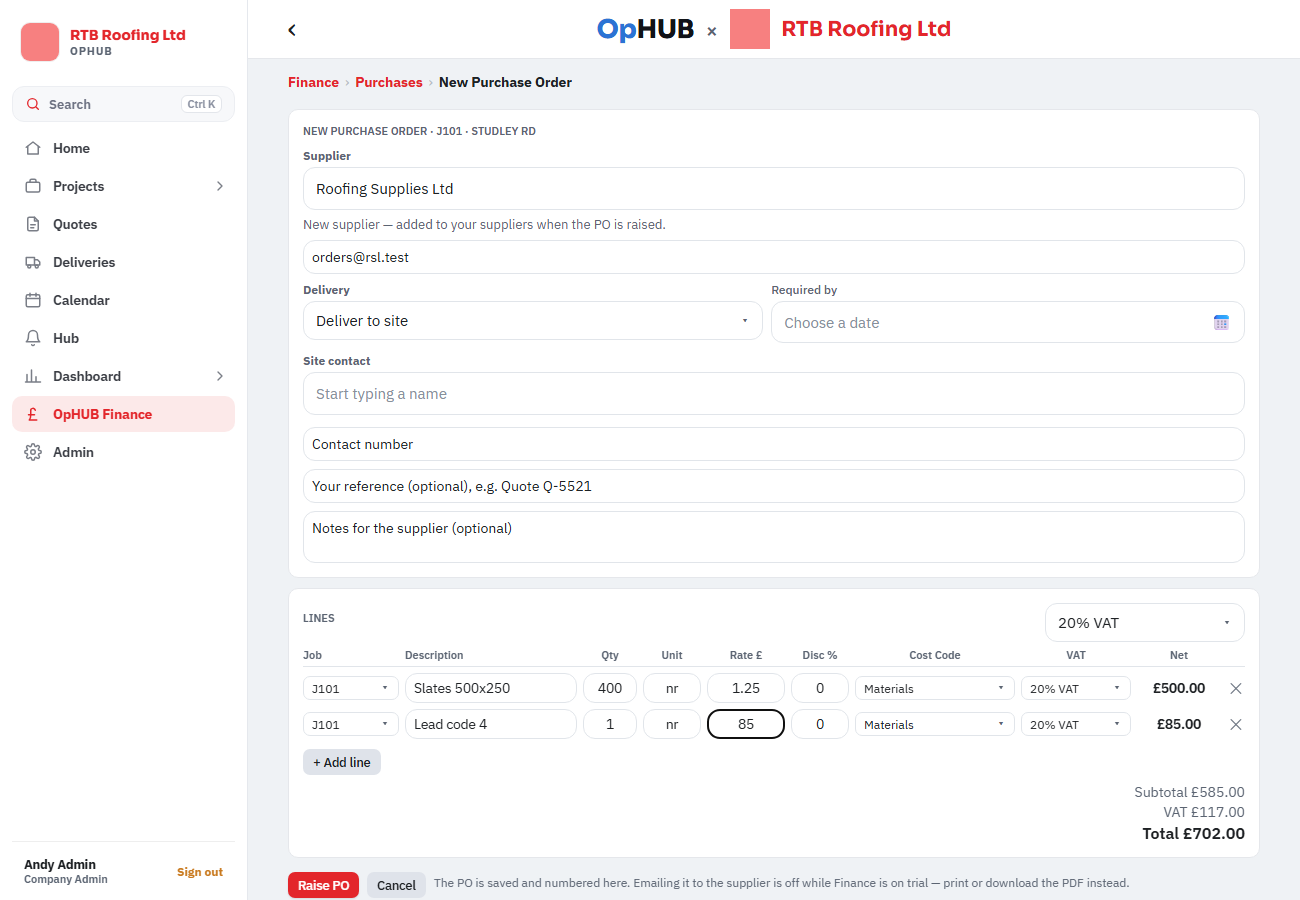
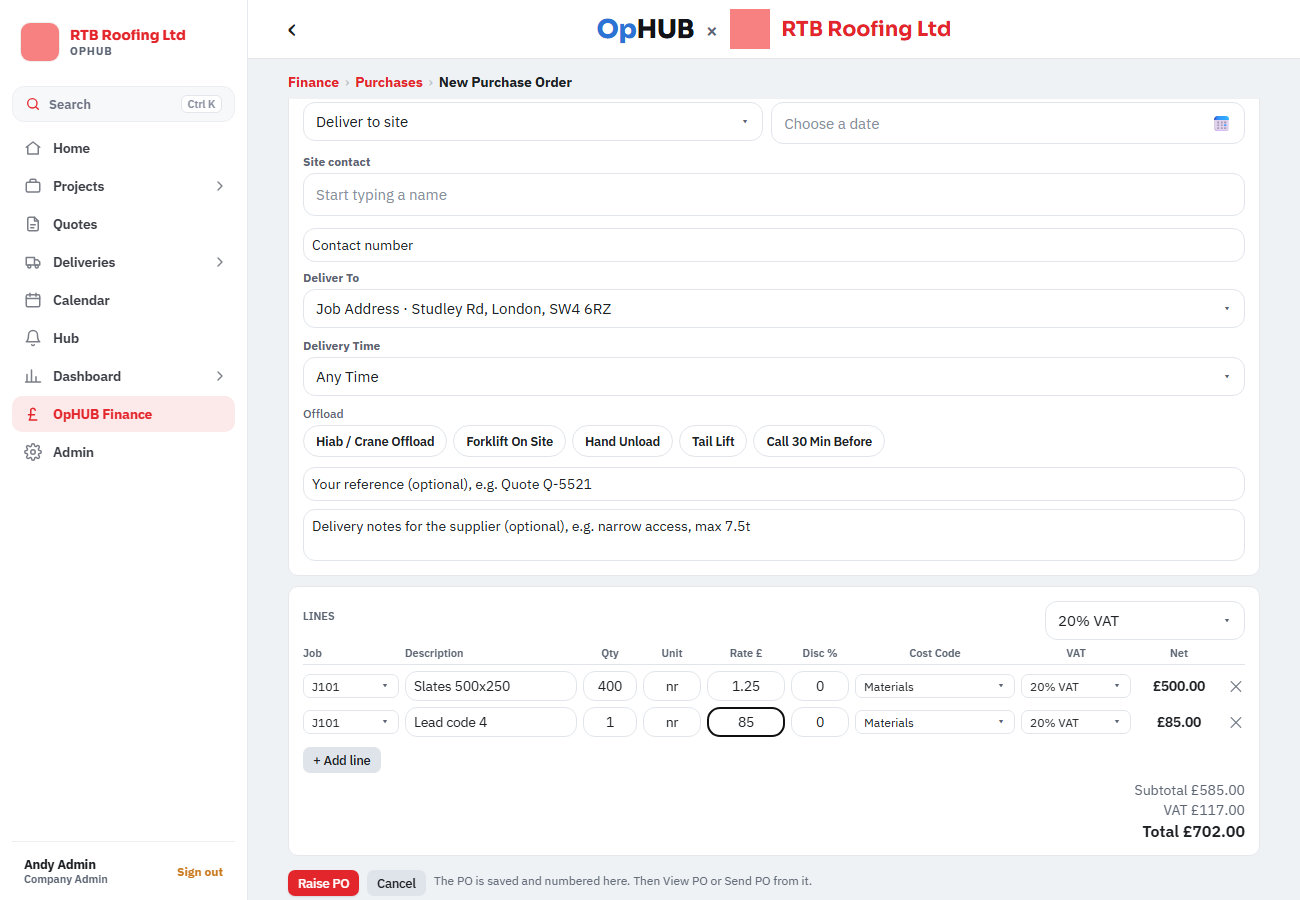
Purchase orders (Andy, 5 Nov): the project quote (and price lists) as a shopping list beside the new PO: tick items, Add To PO, the supplier fills in; Deliver To the job address by default, or the office, or a typed address; delivery time and offload needs (Hiab, forklift, hand unload, tail lift, ca
Claude-Session: https://claude.ai/code/session_012KhfNvBEbifMJmPdX7yZfp

diff --git a/app-native/src/components/FinNewPo.tsx b/app-native/src/components/FinNewPo.tsx
@@ -25,6 +25,9 @@ import { supabase } from '@/lib/supabase';
 import type { Site } from '@/lib/types';
 import { base, radius, useDesk } from '@/theme/theme';
 
+const OFFLOAD = ['Hiab / Crane Offload', 'Forklift On Site', 'Hand Unload', 'Tail Lift', 'Call 30 Min Before'];
+const TIMES: [string, string][] = [['', 'Any Time'], ['First Thing (Before 9)', 'First Thing (Before 9)'], ['AM (8–12)', 'AM (8–12)'], ['PM (12–5)', 'PM (12–5)'], ['Timed — See Notes', 'Timed — See Notes']];
+type QItem = { id: string; quote_id: string; code: string | null; description: string | null; unit: string | null; rate: number | null; supplier_name: string | null };
 type Line = { site_id: string; description: string; qty: string; unit: string; rate: string; disc: string; cost_code: string; cost_code_id: string | null; vat: string };
 type Code = { id: string; code: string | null; name: string; category: string | null; active: boolean | null };
 const box = { borderWidth: 1, borderColor: base.line, borderRadius: radius.input, paddingHorizontal: 8, paddingVertical: 7, color: base.ink, backgroundColor: base.card };
@@ -70,6 +73,22 @@ export function FinNewPo({ site, itemIds = [] }: { site: Site; itemIds?: string[
   // A supplier's default VAT from the Directory goes on every line.
   const applySupVat = (id: string, name: string) => { const v = finSups?.find((x) => x.supplier_id === id || x.name.trim().toLowerCase() === name.trim().toLowerCase())?.purchase_vat; if (v && vats.some((x) => x.code === v)) setLines((ls) => ls.map((l) => ({ ...l, vat: v }))); };
   const [busy, setBusy] = useState(false);
+  // Delivery (Andy, 5 Nov 2026): the job address by default, or the office, or typed; a time; what's needed to offload.
+  const [deliverTo, setDeliverTo] = useState<'job' | 'office' | 'other'>('job');
+  const [addrTyped, setAddrTyped] = useState('');
+  const [delTime, setDelTime] = useState('');
+  const [offload, setOffload] = useState<string[]>([]);
+  const jobAddr = [(site as Record<string, any>).address, (site as Record<string, any>).postcode].filter(Boolean).join(', ');
+  const officeAddr = String((setup?.st as Record<string, any> | undefined)?.company_address || '').replace(/\s*\n\s*/g, ', ');
+  // The project's quotes and the price lists, as a shopping list: tick what you want and add it (Andy, 5 Nov 2026).
+  const { data: quotes } = useQuery({ queryKey: ['finPoQuotes', site.id, me?.org_id], enabled: !!me, queryFn: async () => {
+    const qs = ((await fdb.from('fin_quotes').select('id,site_id,supplier_name,quote_no,quote_date,created_at').eq('org_id', me?.org_id as string).eq('purpose', 'pquote')).data as Record<string, any>[] | null) ?? [];
+    const mine = qs.filter((q) => !q.site_id || q.site_id === site.id).sort((a, b) => Number(b.site_id === site.id) - Number(a.site_id === site.id) || String(b.quote_date || b.created_at || '').localeCompare(String(a.quote_date || a.created_at || '')));
+    const items = mine.length ? ((await fdb.from('fin_quote_items').select('id,quote_id,code,description,unit,rate,supplier_name,active').in('quote_id', mine.map((q) => q.id)).eq('active', true).order('position')).data as QItem[] | null) ?? [] : [];
+    return { list: mine, items };
+  } });
+  const [qPick, setQPick] = useState('');
+  const [ticked, setTicked] = useState<Set<string>>(new Set());
   // Ticked on Purchase Quotes (9219z finPqRaisePo): those items become the lines, the supplier filled in.
   const [filled, setFilled] = useState(false);
   const { data: picked } = useQuery({ queryKey: ['finNewPoItems', itemIds.join(',')], enabled: itemIds.length > 0, queryFn: async () => ((await fdb.from('fin_quote_items').select('*').in('id', itemIds)).data as Record<string, any>[] | null) ?? [] });
@@ -91,6 +110,7 @@ export function FinNewPo({ site, itemIds = [] }: { site: Site; itemIds?: string[
     if (!supId && !supText.trim()) { toast('Choose the supplier.'); return; }
     if (contact.trim() && !contactPh.trim()) { toast(`Add a contact number for ${contact.trim()}.`); return; }
     if (isNew && newEmail.trim() && !/^[^\s@]+@[^\s@]+\.[^\s@]+$/.test(newEmail.trim())) { toast('Check the supplier’s email.'); return; }
+    if (deliverTo === 'other' && delivery === 'delivery' && !addrTyped.trim()) { toast('Type the delivery address.'); return; }
     const items = lines.filter((l) => l.description.trim()).map((l) => {
       const d = dsc(l), r = num(l.rate);
       return { item: l.description.trim(), qty: num(l.qty), unit: l.unit.trim() || null, rate: r === null || isNaN(r) ? null : r4(r * (1 - d / 100)), ...(d ? { list_rate: r, discount_pct: d } : {}), amount: amt(l), cost_code: l.cost_code || 'materials', ...(codes.length && (l.cost_code_id ?? codeFor(l.cost_code)) ? { cost_code_id: l.cost_code_id ?? codeFor(l.cost_code) } : {}), site_id: l.site_id || site.id, vat_rate: l.vat, vat: r2(amt(l) * rateOf(l.vat)) };
@@ -115,14 +135,40 @@ export function FinNewPo({ site, itemIds = [] }: { site: Site; itemIds?: string[
       if (sids.length > 1) { const tot = net || 1; split = sids.map((x) => ({ site_id: x, pct: r2((bySite[x] / tot) * 100) })); split[0].pct = r2(split[0].pct + r2(100 - split.reduce((t, e) => t + e.pct, 0))); }
       // The plot list is this job's plots: it only applies if the PO stayed on this job.
       const plot = poSite === site.id ? sub : '';
-      await fdb.from('purchase_orders').update({ vat, total: r2(net + vat), reference: ref.trim() || null, issue_date: todayIso(), site_contact: contact.trim() || null, site_contact_phone: contactPh.trim() || null, ...(plot ? { sub_job_id: plot } : {}), ...(split ? { split, split_sites: sids.filter((x) => x !== poSite) } : {}) } as never).eq('id', d.id);
+      await fdb.from('purchase_orders').update({ vat, total: r2(net + vat), delivery_to: delivery === 'delivery' ? deliverTo : null, delivery_address: delivery === 'delivery' ? (deliverTo === 'office' ? officeAddr : deliverTo === 'other' ? addrTyped.trim() : jobAddr) || null : null, delivery_time: delTime || null, offload: offload.length ? offload : null, reference: ref.trim() || null, issue_date: todayIso(), site_contact: contact.trim() || null, site_contact_phone: contactPh.trim() || null, ...(plot ? { sub_job_id: plot } : {}), ...(split ? { split, split_sites: sids.filter((x) => x !== poSite) } : {}) } as never).eq('id', d.id);
       if (split) toast(`PO ${d.number} raised — costs split across ${sids.length} jobs`);
       router.replace(`/fin/po/${d.id}` as never);
     } finally { setBusy(false); }
   };
 
+  const qList = quotes?.list || [];
+  const qOn = qPick || qList[0]?.id || '';
+  const qItems = (quotes?.items || []).filter((i) => i.quote_id === qOn);
+  const shop = qList.length ? (
+    <Card style={desk ? { width: 380 } : undefined}>
+      <SectionTitle>From The Project Quote</SectionTitle>
+      <SelectBox value={qOn} title="Quote" options={qList.map((q) => [q.id, `${q.supplier_name || 'Supplier'}${q.quote_no ? ` ${q.quote_no}` : ''}${q.site_id ? '' : ' (price list)'}${q.quote_date ? ` · ${q.quote_date.split('-').reverse().join('/')}` : ''}`] as [string, string])} onChange={(k) => { setQPick(k); setTicked(new Set()); }} />
+      <Muted style={{ marginBottom: 6 }}>Tick what you want, like a shopping list.</Muted>
+      {qItems.map((i) => { const on = ticked.has(i.id); return (
+        <Pressable key={i.id} accessibilityRole="checkbox" accessibilityState={{ checked: on }} accessibilityLabel={`Tick ${i.description || ''}`} onPress={() => setTicked((t) => { const n = new Set(t); if (n.has(i.id)) n.delete(i.id); else n.add(i.id); return n; })} style={{ flexDirection: 'row', alignItems: 'center', gap: 8, paddingVertical: 6, borderTopWidth: 1, borderTopColor: '#f0f1f3' }}>
+          <View style={{ width: 16, height: 16, borderRadius: 4, borderWidth: 1.5, borderColor: on ? base.blue : '#c3c8d0', backgroundColor: on ? base.blue : '#fff', alignItems: 'center', justifyContent: 'center' }}>{on && <Text style={{ color: '#fff', fontSize: 11, fontWeight: '700', lineHeight: 13 }}>✓</Text>}</View>
+          <Text style={{ flex: 1, color: base.ink, fontSize: 13 }} numberOfLines={2}>{i.code ? `${i.code} – ` : ''}{i.description}</Text>
+          <Text style={{ color: base.slate, fontSize: 12.5 }}>{i.rate != null ? `£${Number(i.rate).toFixed(3)}${i.unit ? ` / ${i.unit}` : ''}` : ''}</Text>
+        </Pressable>
+      ); })}
+      {!qItems.length && <Muted>Nothing on this quote yet.</Muted>}
+      <View style={{ marginTop: 8, alignSelf: 'flex-start' }}><Button small title={ticked.size ? `Add ${ticked.size} Ticked To PO` : 'Tick Items To Add'} onPress={() => {
+        const add = qItems.filter((i) => ticked.has(i.id)); if (!add.length) { toast('Tick at least one item.'); return; }
+        setLines((ls) => [...ls.filter((l) => l.description.trim() || l.rate), ...add.map((i) => ({ ...blank(ls[0]?.vat || vat0), description: `${i.code ? `${i.code} – ` : ''}${i.description || ''}`, unit: i.unit || '', rate: i.rate != null ? String(i.rate) : '' }))]);
+        const q = qList.find((x) => x.id === qOn); if (!supId && !supText.trim() && q?.supplier_name) { const m = setup?.sups.find((x) => x.name.trim().toLowerCase() === String(q.supplier_name).trim().toLowerCase()); setSupText(m ? m.name : q.supplier_name); setSupId(m ? m.id : null); }
+        setTicked(new Set()); toast(`${add.length} added to the PO`);
+      }} /></View>
+    </Card>
+  ) : null;
   return (
-    <View>
+    <View style={desk && shop ? { flexDirection: 'row', gap: 12, alignItems: 'flex-start' } : undefined}>
+    {shop}
+    <View style={desk && shop ? { flex: 1, minWidth: 0 } : undefined}>
       <Card>
         <SectionTitle>New purchase order · {jobTag(site)}</SectionTitle>
         <SuggestField label="Supplier" value={supText} onChangeText={(t) => { setSupText(t); setSupId(null); }} placeholder="Type to find a supplier, or a new name" showAllOnFocus max={12}
@@ -138,8 +184,23 @@ export function FinNewPo({ site, itemIds = [] }: { site: Site; itemIds?: string[
         </View>
         <SuggestField label="Site contact" value={contact} onChangeText={setContact} placeholder="Start typing a name" showAllOnFocus max={12} items={(team || []).map((p) => ({ key: p.id, label: p.name, sub: p.phone || '' }))} onPick={(s) => { setContact(s.label); const ph = team?.find((p) => p.id === s.key)?.phone; if (ph) setContactPh(ph); }} />
         <TextInput accessibilityLabel="Contact number" value={contactPh} onChangeText={setContactPh} keyboardType="phone-pad" placeholder="Contact number" style={[box, { marginBottom: 8 }]} />
+        {delivery === 'delivery' && (
+          <>
+            <SelectBox label="Deliver To" value={deliverTo} options={[['job', `Job Address · ${jobAddr || 'not set on the project'}`], ['office', `Office · ${officeAddr || 'set it in Finance › Settings'}`], ['other', '✏ Type An Address…']]} onChange={(k) => setDeliverTo(k as 'job')} />
+            {deliverTo === 'other' && <TextInput accessibilityLabel="Delivery address" value={addrTyped} onChangeText={setAddrTyped} placeholder="Delivery address" multiline style={[box, { marginBottom: 8, minHeight: 44 }]} />}
+            <SelectBox label="Delivery Time" value={delTime} options={TIMES} onChange={setDelTime} />
+            <Text style={{ fontSize: 12, fontWeight: '500', color: base.slate, marginBottom: 4 }}>Offload</Text>
+            <View style={{ flexDirection: 'row', flexWrap: 'wrap', gap: 6, marginBottom: 10 }}>
+              {OFFLOAD.map((o) => { const on = offload.includes(o); return (
+                <Pressable key={o} accessibilityRole="checkbox" accessibilityState={{ checked: on }} onPress={() => setOffload(on ? offload.filter((x) => x !== o) : [...offload, o])} style={{ paddingHorizontal: 12, paddingVertical: 7, borderRadius: 999, borderWidth: 1, borderColor: on ? '#1E7A43' : base.line, backgroundColor: on ? '#E7F6EC' : base.card }}>
+                  <Text style={{ fontSize: 12.5, fontWeight: '600', color: on ? '#1E7A43' : base.ink }}>{on ? '✓ ' : ''}{o}</Text>
+                </Pressable>
+              ); })}
+            </View>
+          </>
+        )}
         <TextInput value={ref} onChangeText={setRef} placeholder="Your reference (optional), e.g. Quote Q-5521" style={[box, { marginBottom: 8 }]} />
-        <TextInput value={note} onChangeText={setNote} placeholder="Notes for the supplier (optional)" multiline style={[box, { minHeight: 52 }]} />
+        <TextInput value={note} onChangeText={setNote} placeholder="Delivery notes for the supplier (optional), e.g. narrow access, max 7.5t" multiline style={[box, { minHeight: 52 }]} />
       </Card>
       <Card>
         <View style={{ flexDirection: 'row', alignItems: 'center', marginBottom: 6 }}>
@@ -198,8 +259,9 @@ export function FinNewPo({ site, itemIds = [] }: { site: Site; itemIds?: string[
       <View style={{ flexDirection: 'row', gap: 8, alignItems: 'center', flexWrap: 'wrap' }}>
         <Button small busy={busy} title="Raise PO" onPress={() => void raise()} />
         <Button small kind="ghost" title="Cancel" onPress={() => router.back()} />
-        <Muted style={{ fontSize: 12 }}>The PO is saved and numbered here. Emailing it to the supplier is off while Finance is on trial — print or download the PDF instead.</Muted>
+        <Muted style={{ fontSize: 12 }}>The PO is saved and numbered here. Then View PO or Send PO from it.</Muted>
       </View>
+    </View>
     </View>
   );
 }

diff --git a/app-native/src/app/(app)/fin/po/[po].tsx b/app-native/src/app/(app)/fin/po/[po].tsx
@@ -14,15 +14,17 @@ import { FinNewPo } from '@/components/FinNewPo';
 import { PoQuote } from '@/components/PoQuote';
 import { confirmAsk, useToast } from '@/components/toast';
 import { Button, Card, Muted, SectionTitle } from '@/components/ui';
-import { fdb, loadSettings } from '@/data/finance';
+import { fdb, finInvoke, loadSettings } from '@/data/finance';
 import { filePoPdf, loadPo, removePoLines, savePoValue, setPoStatus, setPoStatusWithRequests } from '@/data/finPurchase';
 import { useSites } from '@/data/sites';
 import { useAuth } from '@/lib/auth';
 import { DocSplit } from '@/components/DocSplit';
+import { viewDoc } from '@/components/DocViewer';
+import { FinEmailPopup } from '@/components/FinEmailPopup';
 import { buildPoPdf } from '@/lib/finPoPdf';
 import { deliverPdf } from '@/lib/pdf';
 import { COST_CATS, PI_STATUS, poInvoiced } from '@/lib/rules/finBook';
-import { fdate, jobTag, money, num, rateMoney } from '@/lib/rules/finance';
+import { fdate, FIN_TRIAL_MSG, finBlocked, jobTag, money, num, rateMoney } from '@/lib/rules/finance';
 import { base, page, radius, space } from '@/theme/theme';
 
 type Row = Record<string, any>;
@@ -36,11 +38,12 @@ export default function FinPo() {
   const { data, isLoading } = useQuery({ queryKey: ['finPo', poId], enabled: poId !== 'new', queryFn: () => loadPo(poId) });
   const [val, setVal] = useState<string | null>(null);
   const [rm, setRm] = useState<Set<number> | null>(null); // ticking lines to take off (9219zr)
+  const [mailing, setMailing] = useState<string | null>(null); // Send PO: the supplier's email (Andy, 5 Nov 2026)
   if (!me) return null;
   if (poId === 'new') {
     const st = sites.find((x) => x.id === site);
     return (
-      <ScrollView contentContainerStyle={page(900)} keyboardShouldPersistTaps="handled">
+      <ScrollView contentContainerStyle={page(1300)} keyboardShouldPersistTaps="handled">
         <Stack.Screen options={{ title: 'New purchase order' }} />
         {st ? <FinNewPo site={st} itemIds={itemIds ? itemIds.split(',').filter(Boolean) : []} /> : <Muted>Choose the project first.</Muted>}
       </ScrollView>
@@ -62,6 +65,27 @@ export default function FinPo() {
     <View style={{ flex: 1 }}>
     <ScrollView style={{ flex: 1 }} contentContainerStyle={page(900)} keyboardShouldPersistTaps="handled">
       <Stack.Screen options={{ title: po.number }} />
+      {/* View PO (the PDF beside it, or opened) and Send PO, like a sales invoice (Andy, 5 Nov 2026). */}
+      <View style={{ flexDirection: 'row', gap: 8, justifyContent: 'flex-end', marginBottom: 10 }}>
+        <Button small kind="ghost" title="👁 View PO" onPress={async () => { try { viewDoc(await poPdfUrl(), `PO ${po.number}.pdf`); } catch { toast('Could not build the PO PDF.'); } }} />
+        {po.status !== 'cancelled' && <Button small title="✉ Send PO" onPress={async () => { const sup = po.supplier_id ? ((await fdb.from('suppliers').select('email').eq('id', po.supplier_id).maybeSingle()).data as Row | null) : null; setMailing(String(sup?.email || '')); }} />}
+      </View>
+      {mailing !== null && (
+        <FinEmailPopup kind="po" title={`Send PO ${po.number}`} to={mailing} note="The PO PDF goes with it."
+          vars={{ number: String(po.number || ''), project: sites.find((s) => s.id === po.site_id)?.name || '', job_no: sites.find((s) => s.id === po.site_id)?.job_number || '', supplier: po.supplier_name || '', amount: money(po.total ?? po.value), required_by: po.required_by ? fdate(po.required_by) : '' }}
+          onSend={async (o) => {
+            if (finBlocked('send-finance-email', undefined, me.org_id)) return FIN_TRIAL_MSG;
+            const sup = po.supplier_id ? ((await fdb.from('suppliers').select('id,name,email').eq('id', po.supplier_id).maybeSingle()).data as Row | null) : null;
+            const bytes = await buildPoPdf(po, sites.find((s) => s.id === po.site_id) as Row | undefined, await loadSettings(me.org_id), sup, org);
+            const path = await filePoPdf(me, po, bytes);
+            if (!path) return 'Could not store the PDF — try again.';
+            const r = await finInvoke(me, 'send-finance-email', { kind: 'po', site_id: po.site_id, storage_path: path, filename: `PO ${String(po.number).replace(/[^a-z0-9-]+/gi, '_')}.pdf`, recipients: o.to, cc: o.cc, reference: po.number || '', amount: money(po.total ?? po.value), subject: o.subject, body_text: o.body, logos: o.logos, hide_logo: o.hideLogo });
+            if (r.error) return r.error;
+            await fdb.from('purchase_orders').update({ sent_at: new Date().toISOString(), sent_to: o.to.join(', ') } as never).eq('id', po.id);
+            toast(`PO emailed to ${o.to.join(', ')}`); refresh(); return null;
+          }}
+          onClose={() => setMailing(null)} />
+      )}
       <View style={{ flexDirection: 'row', flexWrap: 'wrap', gap: 8, marginBottom: 10 }}>
         <FinStat v={`${po.number} · ${po.status}`} label="PO" /><FinStat v={po.supplier_name || '—'} label="Supplier" />
         <FinStat v={po.value != null ? money(po.value) : '—'} label="PO value" /><FinStat v={money(inv)} label="Invoiced" hot={po.value != null && inv > Number(po.value)} />
@@ -72,6 +96,10 @@ export default function FinPo() {
         <FinRow title="Ordered" right={`${fdate(String(po.created_at).slice(0, 10))} by ${po.ordered_by_name || '—'}`} />
         {!!po.yard_booked_at && <FinRow title="Booked into the yard" right={fdate(String(po.yard_booked_at).slice(0, 10))} />}
         {po.required_by && <FinRow title={po.fulfilment === 'collection' ? 'Collection' : 'Required for delivery'} right={fdate(po.required_by)} />}
+        {po.fulfilment !== 'collection' && !!po.delivery_address && <FinRow title={po.delivery_to === 'office' ? 'Deliver to the office' : 'Deliver to'} right={po.delivery_address} />}
+        {!!po.delivery_time && <FinRow title="Delivery time" right={po.delivery_time} />}
+        {Array.isArray(po.offload) && po.offload.length > 0 && <FinRow title="Offload" right={po.offload.join(', ')} />}
+        {!!po.site_contact && <FinRow title="Site contact" right={`${po.site_contact}${po.site_contact_phone ? ` · ${po.site_contact_phone}` : ''}`} />}
         {po.supplier_branch && <FinRow title="Branch" right={po.supplier_branch} />}{po.note && <FinRow title="Note" right={po.note} />}
         {po.sent_at && <FinRow title="Emailed" right={`${fdate(String(po.sent_at).slice(0, 10))} to ${po.sent_to || ''}`} />}
       </Card>
@@ -114,7 +142,6 @@ export default function FinPo() {
         {po.status !== 'open' && <Button kind="ghost" title="Reopen PO" onPress={async () => { const n = await setPoStatusWithRequests(me, po.id, 'open'); if (n !== null) { toast(n ? `PO reopened — ${n} site request${n === 1 ? '' : 's'} put back` : 'PO reopened'); refresh(); } }} />}
       </View>
       {po.status !== 'cancelled' && <PoQuote me={me} po={po} onDone={refresh} />}
-      <Muted style={{ marginTop: 8 }}>Emailing the PO to the supplier is off during the Finance trial.</Muted>
     </ScrollView>
     <ThinExportBar onPdf={async () => {
         try {

diff --git a/tools/test-harness/pofull-check.js b/tools/test-harness/pofull-check.js
@@ -1,0 +1,42 @@
+// New PO (Andy, 5 Nov 2026): the project quote as a shopping list (tick, Add To PO), delivery to the job address by
+// default with time and offload, then on the PO: View PO and Send PO (the sales-invoice style pop-up with the
+// supplier's email and the PO template). Fake database only; nothing is emailed.
+// node pofull-check.js
+const {chromium, makeContext, S1} = require('./harness');
+const check = (ok, what) => { console.log((ok ? 'PASS ' : 'FAIL ') + what); if (!ok) process.exitCode = 1; };
+(async()=>{
+  const BASE = 'http://localhost:8081';
+  const browser = await chromium.launch(); const errs = [];
+  const {ctx, db} = await makeContext(browser, 'admin', [], {viewport:{width:1400, height:1000}});
+  db.profiles[0].howto_dismissed = ['*']; db.profiles[0].finance_enabled = true;
+  const org = db.profiles[0].org_id;
+  db.suppliers = [{id:'s1', org_id:org, name:'Bauder', email:'orders@bauder.test'}]; db.purchase_orders = [];
+  db.fin_quotes = [{id:'q1', org_id:org, site_id:S1, purpose:'pquote', supplier_name:'Bauder', quote_no:'Q-1182', quote_date:'2026-10-14'}];
+  db.fin_quote_items = [['K4E capsheet 7.5m', 'roll', 86.45], ['DBR 06 underlay', 'roll', 54.275], ['PIR FA-TE 120mm', 'board', 23.18]].map(([d, u, r], i) => ({id:'qi'+i, org_id:org, quote_id:'q1', site_id:S1, supplier_name:'Bauder', description:d, unit:u, rate:r, active:true, position:i}));
+  await ctx.route('**/rest/v1/rpc/fin_new_po', async (r) => { const b = JSON.parse(r.request().postData()||'{}'); const id = 'po-new-1'; db.purchase_orders.push({id, org_id:org, site_id:b.p_site, number:'J101-PO-001', supplier_id:b.p_supplier_id, supplier_name:b.p_supplier_name, items:b.p_items, required_by:b.p_required, fulfilment:b.p_delivery, note:b.p_note, value:b.p_items.reduce((t,x)=>t+x.amount,0), status:'open', created_at:new Date().toISOString(), source:'finance'}); r.fulfill({status:200, contentType:'application/json', body:JSON.stringify({id, number:'J101-PO-001'})}); });
+  const page = await ctx.newPage(); page.on('pageerror', e=>errs.push(e.message));
+  await page.goto(BASE+'/login'); await page.waitForTimeout(5000);
+  await page.fill('input[placeholder="you@yourcompany.co.uk"]', 'a@x.co'); await page.fill('input[type="password"]', 'pw123456');
+  await page.getByText('Sign In', {exact:true}).click(); await page.waitForTimeout(5000);
+  await page.goto(BASE+'/fin/po/new?site='+S1); await page.waitForTimeout(5000);
+  check(await page.getByText('From The Project Quote').count() === 1, 'the project quote shows as a shopping list');
+  await page.getByLabel('Tick K4E capsheet 7.5m').click(); await page.getByLabel('Tick DBR 06 underlay').click();
+  await page.getByText('Add 2 Ticked To PO').click(); await page.waitForTimeout(500);
+  check(await page.getByPlaceholder('Type to find a supplier, or a new name').inputValue() === 'Bauder', 'the supplier fills in from the quote');
+  await page.getByPlaceholder('Qty').nth(0).fill('24'); await page.getByPlaceholder('Qty').nth(1).fill('12');
+  await page.getByText('Hiab / Crane Offload').click(); await page.getByText('Call 30 Min Before').click();
+  await page.screenshot({path:'shots/job/pofull-new-1400.png', fullPage:true});
+  await page.getByText('Raise PO', {exact:true}).click(); await page.waitForTimeout(5000);
+  const po = db.purchase_orders[0];
+  check(po && po.items.length === 2 && po.items[0].rate === 86.45, 'raised with the two quote lines: ' + JSON.stringify(po && po.items.map((i) => [i.item, i.qty, i.rate])));
+  check(po && po.delivery_to === 'job' && (po.offload || []).length === 2, 'delivery to the job address, offload saved: ' + JSON.stringify(po && [po.delivery_to, po.delivery_address, po.offload]));
+  await page.waitForTimeout(1500);
+  check(await page.getByText('👁 View PO').count() === 1 && await page.getByText('✉ Send PO').count() === 1, 'the PO has View PO and Send PO');
+  await page.getByText('✉ Send PO').click(); await page.waitForTimeout(1500);
+  const to = await page.locator('input').evaluateAll((els) => els.map((e) => e.value).filter((v) => v.includes('@')));
+  check(to.includes('orders@bauder.test'), 'Send PO opens with the supplier’s email: ' + to.join(', '));
+  check(to.length >= 0 && (await page.locator('input').evaluateAll((els) => els.map((e) => e.value))).some((v) => /Purchase order J101-PO-001/.test(v)), 'with the PO template filled in');
+  await page.screenshot({path:'shots/job/pofull-send-1400.png'});
+  check(!errs.length, 'no errors ' + errs.slice(0, 2).join(' | '));
+  await browser.close(); process.exit(0);
+})();

diff --git a/app-native/src/data/finPurchase.ts b/app-native/src/data/finPurchase.ts
@@ -164,21 +164,24 @@ export async function removePoLines(me: Profile, id: string, idx: number[]): Pro
 
 /** A Finance PO's PDF kept on the PO (finance-docs, pdf_path) and filed in the job's Material PO's ›
  *  "Finance POs" folder, dated for the required-by day (909 finStorePoPdf + 9219zr mplFilePoPdf). Best-effort. */
-export async function filePoPdf(me: Profile, po: Record<string, any>, bytes: Uint8Array): Promise<void> {
+/** Stores the PO PDF in Finance (and the project's Finance POs folder); gives back where, for Send PO. */
+export async function filePoPdf(me: Profile, po: Record<string, any>, bytes: Uint8Array): Promise<string | null> {
+  let path: string | null = null;
   try {
     const keep = `${me.org_id}/${po.site_id}/po/${String(po.number).replace(/[^a-z0-9-]+/gi, '_')}-${Date.now()}.pdf`;
     const up = await supabase.storage.from('finance-docs').upload(keep, bytes, { contentType: 'application/pdf' });
-    if (!up.error) await fdb.from('purchase_orders').update({ pdf_path: up.data.path } as never).eq('id', po.id);
-    if (!po.site_id) return;
+    if (!up.error) { path = up.data.path; await fdb.from('purchase_orders').update({ pdf_path: up.data.path } as never).eq('id', po.id); }
+    if (!po.site_id) return path;
     const FOLDER = 'Finance POs';
     let folder = ((await fdb.from('material_order_folders').select('id').eq('site_id', po.site_id).is('parent_id', null).eq('name', FOLDER).limit(1)).data as { id: string }[] | null)?.[0];
     if (!folder) folder = ((await fdb.from('material_order_folders').insert({ site_id: po.site_id, parent_id: null, name: FOLDER, created_by: me.id } as never).select('id')).data as { id: string }[] | null)?.[0];
-    const path = `${po.site_id}/finance-pos/${po.id}.pdf`;
-    if ((await supabase.storage.from('material-orders').upload(path, bytes, { contentType: 'application/pdf', upsert: true })).error) return;
+    const fpath = `${po.site_id}/finance-pos/${po.id}.pdf`;
+    if ((await supabase.storage.from('material-orders').upload(fpath, bytes, { contentType: 'application/pdf', upsert: true })).error) return path;
     const itemId = `finpo-${po.id}`;
-    const row = { name: `PO ${po.number || ''}${po.supplier_name ? ` – ${po.supplier_name}` : ''}.pdf`, storage_path: path, size: bytes.length, scheduled_delivery_date: po.required_by ? String(po.required_by).slice(0, 10) : null, synced_at: new Date().toISOString() };
+    const row = { name: `PO ${po.number || ''}${po.supplier_name ? ` – ${po.supplier_name}` : ''}.pdf`, storage_path: fpath, size: bytes.length, scheduled_delivery_date: po.required_by ? String(po.required_by).slice(0, 10) : null, synced_at: new Date().toISOString() };
     const ex = ((await fdb.from('material_order_files').select('id').eq('site_id', po.site_id).eq('item_id', itemId).limit(1)).data as { id: string }[] | null)?.[0];
     if (ex) await fdb.from('material_order_files').update(row as never).eq('id', ex.id);
     else await fdb.from('material_order_files').insert({ ...row, site_id: po.site_id, org_id: me.org_id, folder_id: folder?.id ?? null, item_id: itemId } as never);
   } catch { /* filing is best-effort; the download still happens */ }
+  return path;
 }

diff --git a/app-native/src/lib/finPoPdf.ts b/app-native/src/lib/finPoPdf.ts
@@ -32,8 +32,9 @@ export async function buildPoPdf(po: Row, site: Row | undefined, st: Row, suppli
   by -= 8;
   txt(po.fulfilment === 'collection' ? 'COLLECTION' : 'DELIVER TO', M, by, { font: bold, size: 8.5, color: SLATE }); by -= 15;
   if (po.fulfilment !== 'collection') {
-    txt(site?.name || '', M, by, { font: bold, size: 10.5 }); by -= 13;
-    wrap(safe(site ? fullSiteAddress(site as never) || [site.address, site.postcode].filter(Boolean).join(', ') : ''), reg, 10, 240).slice(0, 4).forEach((l) => { txt(l, M, by); by -= 13; });
+    // The address chosen on the PO (job, office or typed; Andy 5 Nov 2026), else the job's.
+    txt(po.delivery_to === 'office' ? 'Our office' : po.delivery_to === 'other' ? 'Delivery address' : site?.name || '', M, by, { font: bold, size: 10.5 }); by -= 13;
+    wrap(safe(po.delivery_address || (site ? fullSiteAddress(site as never) || [site.address, site.postcode].filter(Boolean).join(', ') : '')), reg, 10, 240).slice(0, 4).forEach((l) => { txt(l, M, by); by -= 13; });
   } else { txt('Supplier’s branch — we will collect', M, by); by -= 13; }
   let dy = y;
   [['PO number', po.number], ['Date', fdate(String(po.created_at || '').slice(0, 10))], ['Project no.', site?.job_number || '—'], ['Required by', po.required_by ? fdate(po.required_by) : 'Please advise'], ['Ordered by', po.ordered_by_name || '']].forEach(([k, v]) => { txt(k, 330, dy, { size: 9, color: SLATE }); txt(v, 420, dy, { font: bold, size: 10 }); dy -= 15; });
@@ -62,6 +63,9 @@ export async function buildPoPdf(po: Row, site: Row | undefined, st: Row, suppli
       txt('Order total', W - M - 210, y, { font: bold, size: 11 }); right(money(po.total != null ? po.total : Number(po.value) + Number(po.vat)), W - M - 8, y, { font: bold, size: 11 }); y -= 22;
     } else { txt('Order total (excl. VAT)', W - M - 210, y, { font: bold, size: 11 }); right(money(po.value), W - M - 8, y, { font: bold, size: 11 }); y -= 22; }
   }
+  // Delivery details (Andy, 5 Nov 2026): site contact, time, what's needed to offload.
+  const dl = [po.site_contact ? `Site contact: ${po.site_contact}${po.site_contact_phone ? ` – ${po.site_contact_phone}` : ''}` : '', po.delivery_time ? `Delivery time: ${po.delivery_time}` : '', Array.isArray(po.offload) && po.offload.length ? `Offload: ${po.offload.join(', ')}` : ''].filter(Boolean);
+  if (dl.length && po.fulfilment !== 'collection') { txt('DELIVERY', M, y, { font: bold, size: 8.5, color: SLATE }); y -= 14; dl.forEach((d) => wrap(safe(d), reg, 10, W - 2 * M).forEach((l) => { txt(l, M, y); y -= 13; })); y -= 6; }
   if (po.note) { txt('NOTES', M, y, { font: bold, size: 8.5, color: SLATE }); y -= 14; wrap(safe(po.note), reg, 10, W - 2 * M).forEach((l) => { txt(l, M, y); y -= 13; }); y -= 6; }
   wrap(`Please quote PO ${po.number} on your delivery note and invoice. Invoices without a PO number, or over the value of this order, may be held.`, reg, 9.5, W - 2 * M).forEach((l) => { txt(l, M, y, { size: 9.5, color: SLATE }); y -= 12; });
   page.drawLine({ start: { x: M, y: 108 }, end: { x: W - M, y: 108 }, thickness: 0.6, color: LINE });
